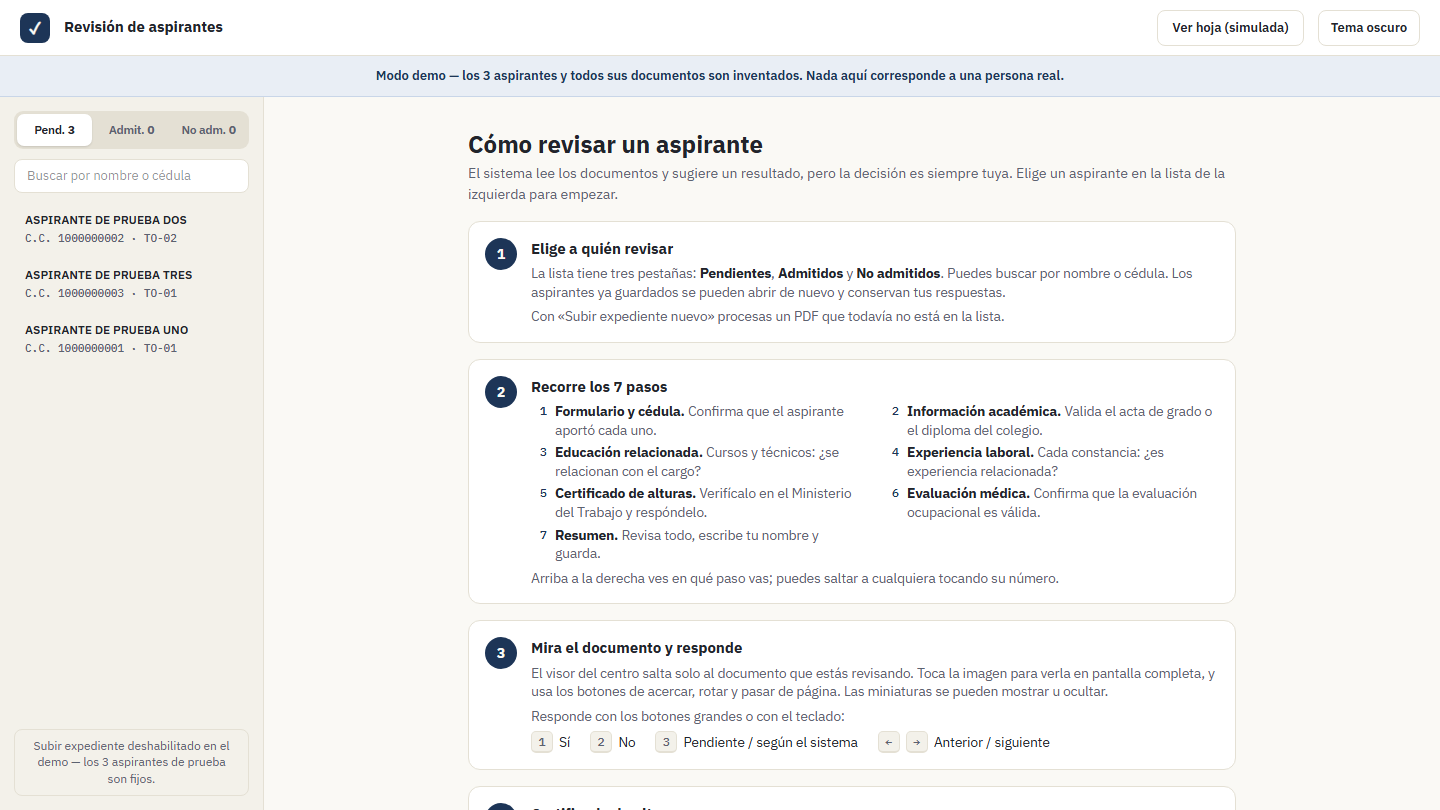
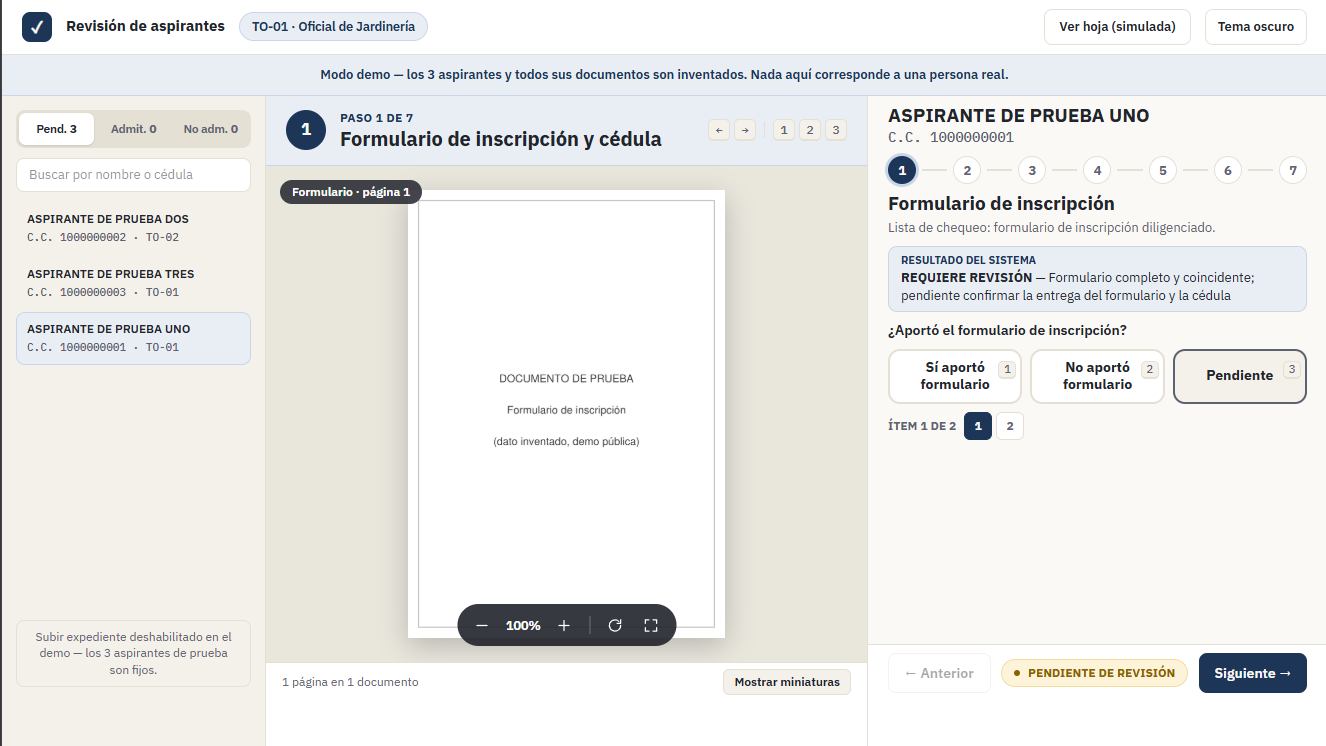
Usar la vista de revisión como captura del Panel
La tarjeta muestra ahora un paso real de la revisión (lista, visor del
documento y decisión) en lugar de la pantalla de ayuda inicial.

Changed region(s): [[0.0, 0.0, 0.9894, 0.9866], [0.8039, 0.0308, 0.9894, 0.0617], [0.3401, 0.9866, 0.371, 1.0]]

diff --git a/src/content/projects/panel-convocatorias.md b/src/content/projects/panel-convocatorias.md
@@ -16,7 +16,7 @@ highlights:
   - La decisión siempre es de una persona
   - Sin datos reales en el repo (Ley 1581)
 cover: ../../assets/projects/panel-convocatorias.png
-coverAlt: Panel de revisión en modo demo, con la lista de aspirantes de prueba y la guía de los siete pasos.
+coverAlt: Panel de revisión en modo demo. Lista de aspirantes de prueba, visor del documento y el primer paso de los siete, con la sugerencia del sistema y la decisión de quien revisa.
 flow:
   - Expediente PDF
   - Lectura y clasificación con Claude
